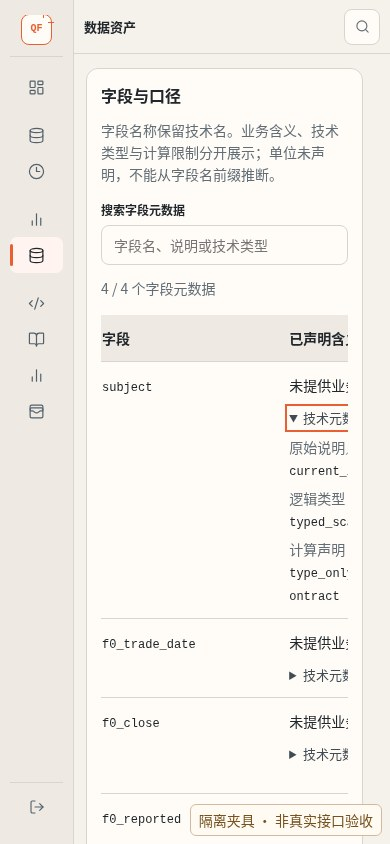
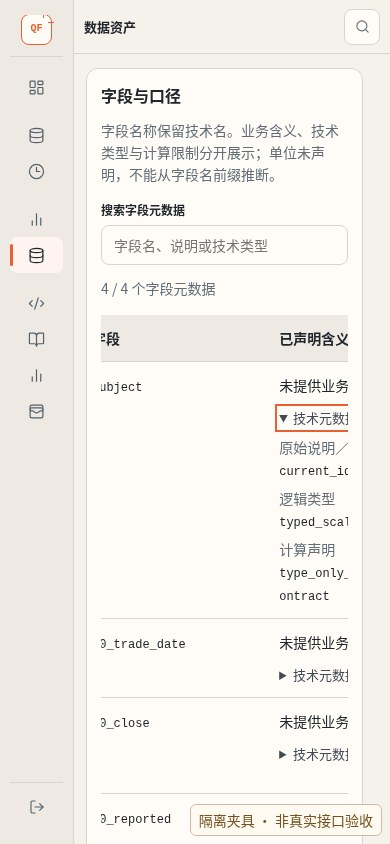
Improve S2-D04 scenario screenshot evidence

diff --git a/frontend/src/features/data-assets/handoff/s2-d04/README.md b/frontend/src/features/data-assets/handoff/s2-d04/README.md
@@ -8,6 +8,8 @@ not complete, and no production operation, main merge or deployment was run.
 - Main was fetched before implementation and again before submission:
   `4c9e8167d49ef1d6bbc49afc6578208d7a339f97`.
 - Branch: `codex/s2-d04-dataset-details`, in its own cloud worktree.
+- D04 implementation commit: `0397371fde35304e189fd46317b9360493ca8cd1`;
+  the subsequent evidence commit improves scenario screenshot framing only.
 - Exact D01 dependency: `1e7643a96440602575b31995fbec8c03304aa6ab`.
 - Exact D02 dependency: `9dafeb6eb052796d3b4783785feb104f1de3cf5b`.
 - Both original commits and their ancestors are preserved by merges; the
